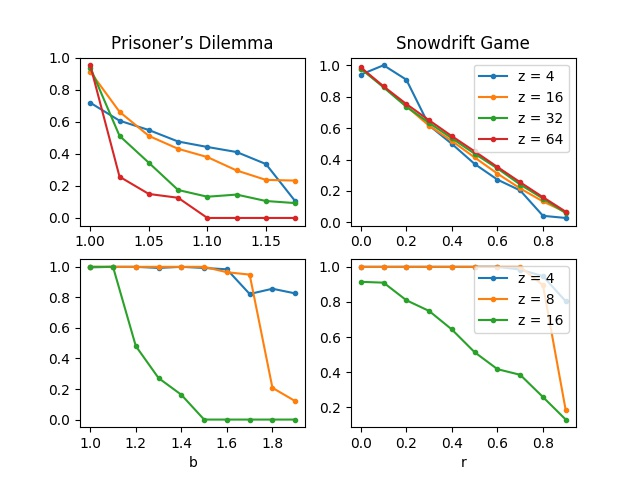
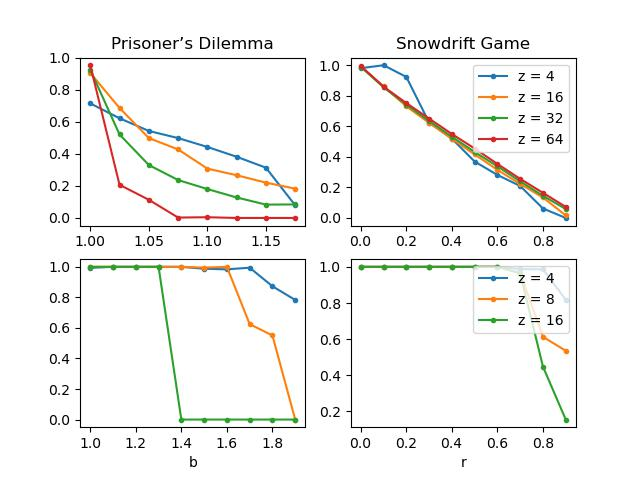
some change

diff --git a/Scale-Free Networks Provide a Unifying Framework for the Emergence of Cooperation/Code-Reproduction/test.py b/Scale-Free Networks Provide a Unifying Framework for the Emergence of Cooperation/Code-Reproduction/test.py
@@ -6,40 +6,50 @@ from config import *
 from EvolutionGame import EvolutionGameProcess
 from output import output2File
 
-# if __name__ == '__main__':
 
-for _m in [4]: #[2, 4, 8]:
-    sf_NOCs = nx.barabasi_albert_graph(N, _m)  # 使用BA模型构建一个含有N个节点的无标度网络，每次添加m个边
-    # xx =nx.spectral_layout(sf_NOCs)
-    # nx.draw(sf_NOCs,xx,with_labels=True,node_size=30)
-    # plt.show()
-    # for id in range(N):
-    #     print("id's adj: ", end="")
-    #     print(sf_NOCs.adj[id])
-    print("sf_NOCs, PD")
-    for _b in np.arange(1, 2, 0.1): 
-        playersInit()
-        fc = EvolutionGameProcess(sf_NOCs, "PD", _b)
-        print("m: {}; b: {}; fc:{} ".format(_m, _b, fc))
-    print("sf_NOCs, SG")
-    for _r in np.arange(0.001, 1, 0.1):
-        playersInit()
-        fc = EvolutionGameProcess(sf_NOCs, "SG", _r)
-        print("m: {}; r: {}; fc:{} ".format(_m, _r, fc))
-        
-for _k in [64]: #[4, 16, 32, 64]:
-    regular_NOCs = nx.random_regular_graph(_k, N)  # 构建一个含有N个节点，每个节点k度的规则图
-    print("regular_NOCs, PD")
-    for _b in np.arange(1, 1.2, 0.025):
-        output2File("output.txt", "a", "regular_NOCs, PD")
-        playersInit()
-        fc = EvolutionGameProcess(regular_NOCs, "PD", _b)
-        print("k: {}; b: {}; fc:{} ".format(_k, _b, fc))
+def draw():  # 结果绘图
+    pass
 
-    print("regular_NOCs, SG")
-    for _r in np.arange(0.001, 1, 0.1):
-        output2File("output.txt", "w", "regular_NOCs, SG")
-        playersInit()
-        fc = EvolutionGameProcess(regular_NOCs, "SG", _r)
-        print("k: {}; r: {}; fc:{} ".format(_k, _r, fc))
-    
+
+if __name__ == '__main__':
+    fig = plt.figure()
+    plt.ylabel("frequnency of cooperators")
+    xpoint = []
+    ypoint = []
+
+
+    for _m in [2]:
+        sf_NOCs = nx.barabasi_albert_graph(N, _m)  # 使用BA模型构建一个含有N个节点的无标度网络，每次添加m个边
+        print("sf_NOCs, PD")
+        xpoint.clear()
+        ypoint.clear()
+        for _b in np.arange(1, 2, 0.1):
+            output2File("output.txt", "w", "sf_NOCs, PD")
+            playersInit()
+            fc = EvolutionGameProcess(sf_NOCs, "PD", _b)
+            print("m: {}; b: {}; fc:{} ".format(_m, _b, fc))
+            xpoint.append(_b)
+            ypoint.append(fc)
+
+        ax3 = plt.subplot(2, 2, 3)
+        plt.xlabel("b")
+        plt.plot(xpoint, ypoint, marker='o', ms=3, label="z = {}".format(2 * _m))
+
+        print("sf_NOCs, SG")
+        xpoint.clear()
+        ypoint.clear()
+        for _r in np.arange(0.001, 1, 0.1):
+            output2File("output.txt", "w", "sf_NOCs, SG")
+            playersInit()
+            fc = EvolutionGameProcess(sf_NOCs, "SG", _r)
+            print("m: {}; r: {}; fc:{} ".format(_m, _r, fc))
+            xpoint.append(_r)
+            ypoint.append(fc)
+
+        ax4 = plt.subplot(2, 2, 4)
+        plt.xlabel("r")
+        plt.plot(xpoint, ypoint, marker='o', ms=3, label="z = {}".format(2 * _m))
+        plt.legend(loc='upper right')
+
+    plt.savefig('./PDAndSG.jpg')
+    plt.show()

diff --git a/Scale-Free Networks Provide a Unifying Framework for the Emergence of Cooperation/Code-Reproduction/main.py b/Scale-Free Networks Provide a Unifying Framework for the Emergence of Cooperation/Code-Reproduction/main.py
@@ -9,6 +9,7 @@ from output import output2File
 def draw():  # 结果绘图
     pass
 
+
 if __name__ == '__main__':
     fig = plt.figure()
     plt.ylabel("frequnency of cooperators")
@@ -61,25 +62,8 @@ if __name__ == '__main__':
             xpoint.append(_b)
             ypoint.append(fc)
 
-        ax3 = plt.subplot(2, 2, 3)
-        plt.xlabel("b")
         plt.plot(xpoint, ypoint, marker = 'o', ms = 3, label = "z = {}".format(2*_m))
 
-        print("sf_NOCs, SG")
-        xpoint.clear()
-        ypoint.clear()
-        for _r in np.arange(0.001, 1, 0.1):
-            output2File("output.txt", "w", "sf_NOCs, SG")
-            playersInit()
-            fc = EvolutionGameProcess(sf_NOCs, "SG", _r)
-            print("m: {}; r: {}; fc:{} ".format(_m, _r, fc))
-            xpoint.append(_r)
-            ypoint.append(fc)
-
-        ax4 = plt.subplot(2, 2, 4)
-        plt.xlabel("r")
-        plt.plot(xpoint, ypoint, marker = 'o', ms = 3, label = "z = {}".format(2*_m))
-        plt.legend(loc = 'upper right')
         
-    plt.savefig('./PDAndSG.jpg')
+    plt.savefig('./PDAndSG2.jpg')
     plt.show()

diff --git a/Scale-Free Networks Provide a Unifying Framework for the Emergence of Cooperation/Code-Reproduction/config.py b/Scale-Free Networks Provide a Unifying Framework for the Emergence of Cooperation/Code-Reproduction/config.py
@@ -6,18 +6,21 @@ N = 300  # 节点数量
 PreStep = 2000  # 演化轮数
 CalStep = 200  # 演化PreStep后，进行CalStep步，计算均值
 MeanStep = 10  # MeanStep次游戏取均值
+
+
 class PayOff_PD():  # 囚徒博弈的得失情况
-    def __init__(self, b = 1.5):
+    def __init__(self, b=1.5):
         self.T = b
         self.R = 1
         self.P = 0
         self.S = 0
 
+
 class PayOff_SG():  # 雪堆博弈的得失情况
-    def __init__(self, r = 0.5):
-        beta = (1/r +1 )/2
-        self.T=beta
-        self.R=beta-0.5
-        self.P=0
-        self.S=beta-1
+    def __init__(self, r=0.5):
+        beta = (1 / r + 1)/2
+        self.T = beta
+        self.R = beta-0.5
+        self.P = 0
+        self.S = beta-1
 

diff --git a/Scale-Free Networks Provide a Unifying Framework for the Emergence of Cooperation/Code-Reproduction/EvolutionGame.py b/Scale-Free Networks Provide a Unifying Framework for the Emergence of Cooperation/Code-Reproduction/EvolutionGame.py
@@ -55,7 +55,8 @@ def EvolutionGameProcess(NOCs, Game, bORr):
     for mean in range(MeanStep):
         # 前置演化博弈过程，保证到达博弈平衡状态
         for _ in range(PreStep):
-            EvolutionGameStep(NOCs, Game, bORr)
+            fc = EvolutionGameStep(NOCs, Game, bORr)
+            print(fc)
 
         # 计算博弈平衡状态下的均值
         fc = 0

diff --git a/Social diversity promotes the emergence of cooperation in public goods games/Code-Reproduction/config.py b/Social diversity promotes the emergence of cooperation in public goods games/Code-Reproduction/config.py
@@ -1,6 +1,6 @@
 N = 300  # 节点数量
-PreStep = 5000  # 前置演化
-CalStep = 300  # PreStep之后演化CalStep取平均值
+PreStep = 3000  # 前置演化
+CalStep = 200  # PreStep之后演化CalStep取平均值
 MeanStep = 20  # MeanStep次（平衡+演化CalStep步），运行结果取均值
 DiffGraph = 3  # 重构DiffGraph次图进行运算
 m = 2  # z=4
